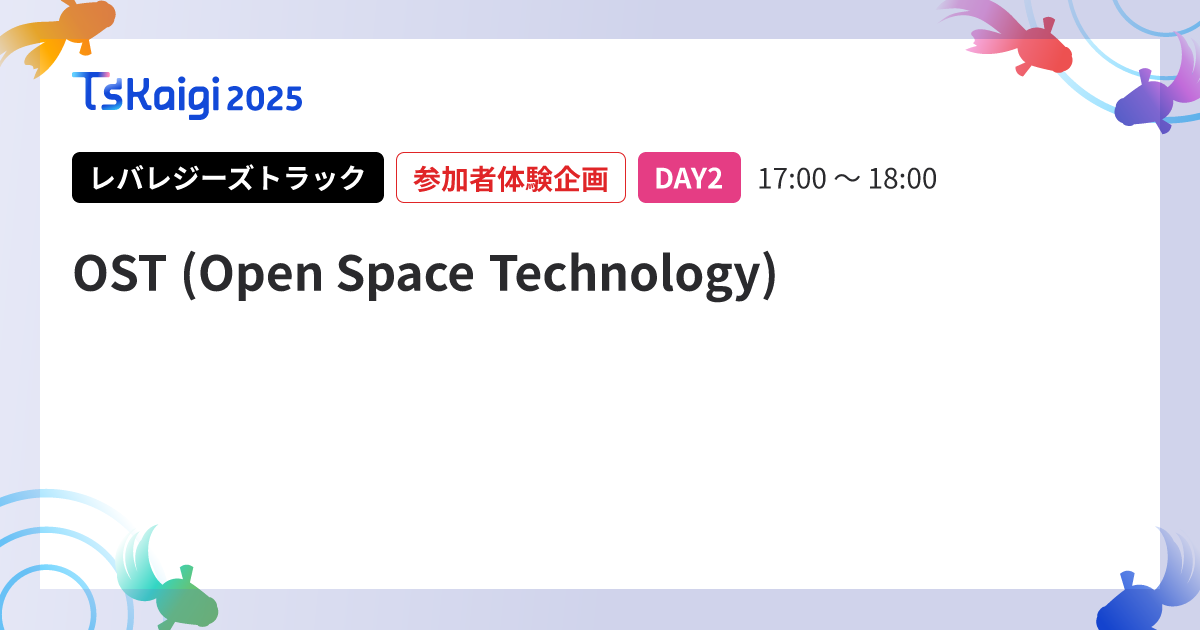
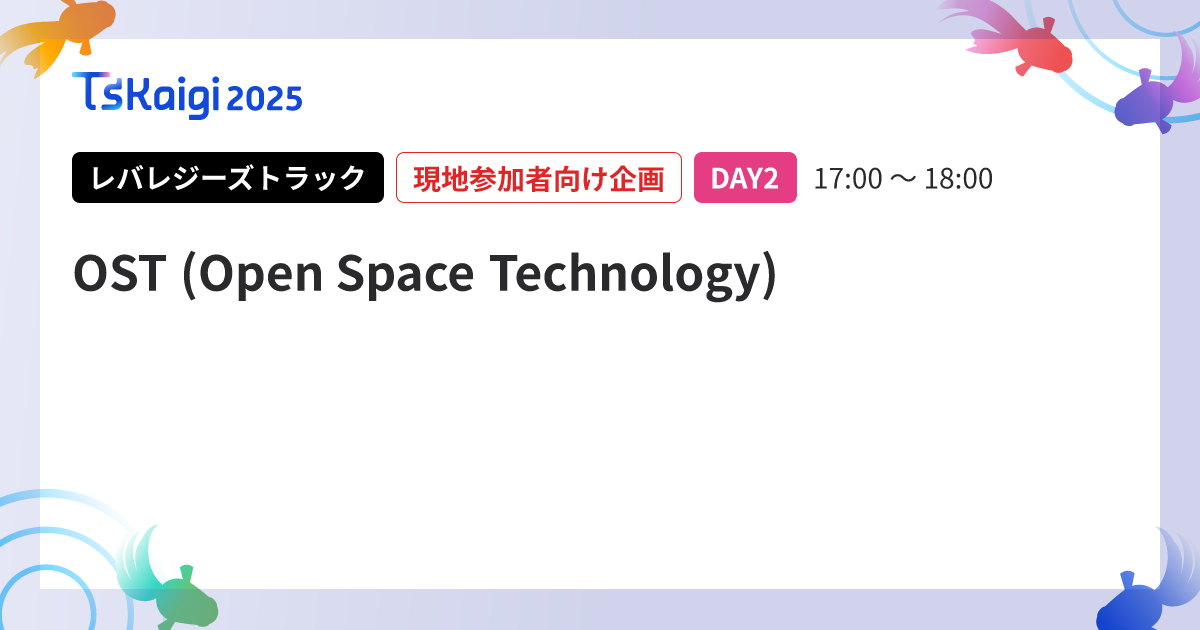
fix: 参加者体験企画のラベルを変更

Changed region(s): [[0.3392, 0.2413, 0.8325, 0.3317]]

diff --git a/src/constants/talkList.ts b/src/constants/talkList.ts
@@ -42,7 +42,7 @@ export const TALK_TYPE = {
     color: "#E53D84",
   },
   EVENT: {
-    name: "参加者体験企画",
+    name: "現地参加者向け企画",
     color: "#E02527",
   },
 };
